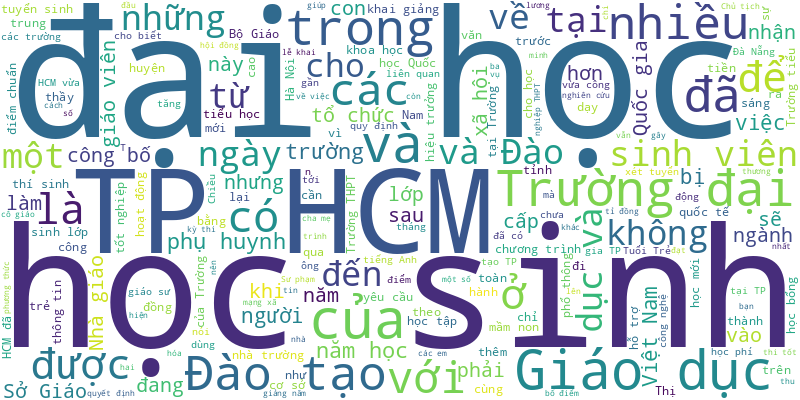
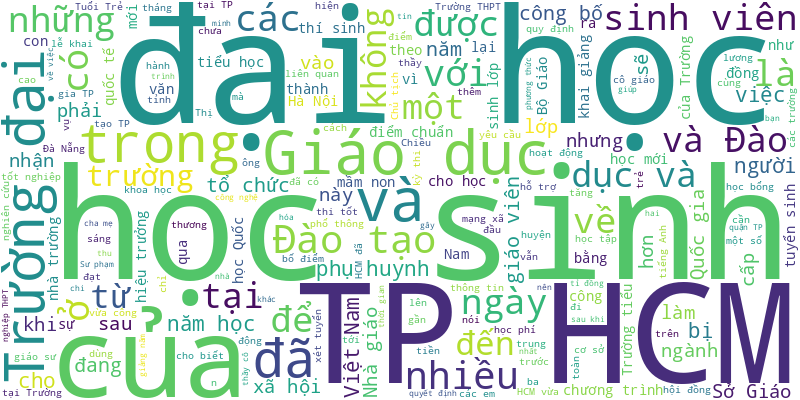
🍀 = 40%

diff --git a/README.md b/README.md
@@ -1,6 +1,19 @@
 # Tuoi Tre RSS 
 
 ## Giáo dục 
+- Ngày 20-11, Quốc hội thảo luận về dự thảo Luật Nhà giáo. Các nội dung liên quan chính sách đặc thù về tiền lương, tuyển dụng nhà giáo, dạy thêm đã nhận được nhiều ý kiến thảo luận của đại biểu.
+- Hành trình dạy học đối với cô giáo Phạm Minh Trang, giáo viên lớp 1/1 Trường tiểu học Đống Đa, quận Tân Bình, TP.HCM, là không ngừng đổi mới.
+- Giải thưởng Lê Văn Thới do giáo sư Lê Ngọc Thạch tài trợ vừa được tiếp tục trao cho người học có kết quả nghiên cứu khoa học xuất sắc.
+- Trường THPT ở Đắk Lắk thông báo không nhận hoa, phong bì vì không muốn phụ huynh, học sinh khó khăn bận lòng dịp lễ 20-11.
+- Bước sang mùa thứ 4 với nhiều đổi mới, sân chơi Royal Speaking Contest của Royal School không chỉ thu hút dàn thí sinh chất lượng mà còn lan tỏa giá trị của kỹ năng hùng biện học thuật.
+- Trẻ tự kỷ cần nhiều hơn một người thầy, người đồng hành sẵn sàng bước vào thế giới của các em, từng chút một.
+- Bộ trưởng Nguyễn Kim Sơn nêu rõ đang chủ trương không cấm việc dạy thêm, mà cấm những hành vi dạy thêm vi phạm đạo đức hoặc trái nguyên tắc chuyên môn của nhà giáo.
+- Theo PGS.TS Nguyễn Đức Sơn, tôn vinh nghề dạy học để thấy trách nhiệm của chúng ta lớn lao, công việc của chúng ta có ý nghĩa.
+- Những buổi không lên lớp, mẹ dọn hàng ra chợ và mãi đến chiều tối mới về nhà. Ngày 20-11 năm nay, tôi gửi lời tri ân hai đấng sinh thành của tôi.
+- Lực lượng cứu nạn, cứu hộ đã tìm được cả 5 thi thể học sinh trong vụ đuối nước xảy ra ở bãi sông Hồng đoạn qua xã Hiền Quan (Phú Thọ).
+- Dạy thêm học thêm cũng có những mặt tích cực, không phải giáo viên nào cũng xấu, ép học sinh học thêm.
+- Huyện đảo Trường Sa vừa tổ chức gặp mặt các thầy cô giáo đang công tác tại huyện đảo, nhân Ngày Nhà giáo Việt Nam (20-11).
+- 'Tình cảm của chúng em dành cho thầy bền chắc như những phân tử liên kết của carbon: Không ai có thể phá vỡ...'.
 - Bối cảnh mới đòi hỏi phải định nghĩa lại người thầy, hay nói cách khác là minh định lại vai trò là sứ mệnh của nghề giáo.
 - Họ đến với nghề giáo từ nhiều ngả đường khác nhau. Dù với con đường nào thì đích đến của họ là nghề trồng người, tuy nhiều gian lao nhưng vô cùng ý nghĩa.
 - Duy nhất cái tên Lê Công Sự là thầy giáo trong cả trăm "cô nuôi dạy trẻ" được Thành Đoàn TP.HCM trao giải thưởng "Nhà giáo trẻ tiêu biểu" TP.HCM 2024 dịp 20-11 năm nay.
@@ -988,21 +1001,56 @@
 - Thứ trưởng Bộ Giáo dục và Đào tạo Phạm Ngọc Thưởng đã yêu cầu TP.HCM sớm có trường phổ thông dùng tiếng Anh là ngôn ngữ thứ 2.
 - Phát hiện hai em nhỏ bị rơi xuống sông đuối nước, ba học sinh lớp 8 đã lao tới cứu các em, đưa lên bờ an toàn.
 - Các bài học về kỹ năng sống phải được thiết kế thiết thực hơn. Sự trải nghiệm quan trọng nhất là trải nghiệm thực tế cuộc sống.
-- Phải có đủ sách giáo khoa đến tay học sinh trước năm học mới 2024-2025 là yêu cầu của Bộ GD-ĐT được nhắc lại khi sắp tới ngày khai trường.
-- Chính quyền Jakarta lên kế hoạch sắp xếp cho học sinh nghèo được học miễn phí tại 1.000 trường tư thục trong năm học tới.
-- Trong năm học mới, các trường phát triển hệ thống ngân hàng câu hỏi trực tuyến cho các môn học; đẩy mạnh đánh giá thường xuyên bằng hình thức trực tuyến...
-- Liên quan vụ tố không xác nhận cư trú cho trẻ đi học, người cha cho biết đã chuyển chỗ ở từ Vĩnh Long sang Bến Tre để con kịp nhập học.
-- Theo dự thảo sửa đổi, bổ sung thông tư số 50/2021, Bộ Công an sẽ sửa đối tượng dự tuyển trình độ thạc sĩ và bổ sung đối tượng được phép đăng ký dự tuyển trình độ đại học vừa làm vừa học.
-- Số điện thoại tiếp nhận thông tin trong giờ hành chính của Bộ Giáo dục và Đào tạo: 024.38621002, email: duongdaynongct10.2019@moet.gov.vn.
-- Trường đại học Sư phạm TP.HCM vừa công bố đề thi đánh giá năng lực chuyên biệt theo cấu trúc mới từ năm 2025.
-- Liên quan đến việc Trường THPT Ngô Quyền - Đông Anh, Hà Nội, ra quyết định "dừng đào tạo" với một học sinh lớp 12A5, Sở Giáo dục và Đào tạo Hà Nội vừa có chỉ đạo.
-- Trường trung cấp Y - Dược Tôn Thất Tùng bị thanh tra kết luận có dấu hiệu làm giả giấy chứng nhận đăng ký hoạt động để cung cấp cho bảo hiểm xã hội quận.
-- Ông Nguyễn Văn Hiếu - giám đốc Sở Giáo dục và Đào tạo TP.HCM - yêu cầu các trường trung học coi dạy tiếng Anh là mở cánh cửa vào đời cho học sinh và yêu cầu cán bộ sở này nghiên cứu trình dự thảo về phổ cập tiếng Anh cho học sinh TP.
-- Sinh viên ngành công nghệ thông tin Trường đại học Công nghệ TP.HCM (HUTECH) trải nghiệm cách học lưu động mà ở đó các bạn được vạch đường từ những chuyên gia công nghệ.
-- Nhiều trường phổ thông tư thục tại TP.HCM đã bắt đầu đón học sinh tựu trường năm học mới từ tuần này.
-- Sở Giáo dục và Đào tạo TP.HCM vừa yêu cầu Trường quốc tế AISVN nghiêm túc chấp hành quyết định đình chỉ hoạt động, đồng thời tạo mọi điều kiện thuận lợi nhất cho cha mẹ học sinh làm thủ tục chuyển trường.
 ![Edu](Edu.png)
 ## Thời Sự 
+- Từ thực tế gỡ vướng cho dự án Nhiệt điện Thái Bình 2, những dự án ngàn tỉ đồng hiện đang còn vướng mắc có cách nào để giải quyết?
+- Sự hồi sinh Nhà máy nhiệt điện Thái Bình 2, đạm Ninh Bình, xơ sợi Đình Vũ... thời gian qua cho thấy có thể chặn đứng lãng phí ở những đại dự án ngàn tỉ đồng "đắp chiếu" nhiều năm.
+- Ngày 20-11, Quốc hội thảo luận về dự thảo Luật Nhà giáo. Các nội dung liên quan chính sách đặc thù về tiền lương, tuyển dụng nhà giáo, dạy thêm đã nhận được nhiều ý kiến thảo luận của đại biểu.
+- Hôm nay (21-11), Quốc hội thảo luận việc thí điểm cho mua đất nông nghiệp, đất không phải đất ở làm dự án nhà ở thương mại. Lần thứ 3 (trong hai năm kể từ năm 2022) doanh nghiệp hồi hộp chờ một chính sách vốn đã có, giờ chờ thông qua để "thí điểm".
+- Vụ tai nạn xảy ra khoảng 23h30 ngày 20-11 tại km 6+500 cao tốc Phan Thiết - Dầu Giây, đoạn qua huyện Hàm Thuận Nam, tỉnh Bình Thuận giữa xe khách và xe đầu kéo.
+- Một số tin tức đáng chú ý: FPT chi nghìn tỉ đồng trả cổ tức; Phát hiện một doanh nghiệp 'ém' thông tin trái phiếu; Cuối tháng 11, cầu Rạch Đỉa ở huyện Nhà Bè sẽ thông xe; Sốt xuất huyết, tay chân miệng tại TP.HCM giảm, sởi tiếp tục tăng mạnh...
+- Thủ tướng Phạm Minh Chính nhấn mạnh quan hệ giữa Việt Nam và Cộng hòa Dominica đang bắt đầu bước sang trang mới.
+- Từ đêm nay 21-11, thời tiết miền Trung mưa lớn, hai miền Nam, Bắc ngày nắng, trên biển dông gió dữ dội.
+- Sáng 20-11 (giờ địa phương, tối cùng ngày giờ Việt Nam), Thủ tướng Phạm Minh Chính và Phu nhân đã bắt đầu các hoạt động chính thức tại Cộng hòa Dominica.
+- UBND huyện Cát Hải (TP Hải Phòng) vừa thông báo dừng hoạt động dịch vụ chèo thuyền kayak trên các vịnh thuộc quần đảo Cát Bà.
+- Một thầy giáo người Hà Tĩnh suốt hơn 50 năm qua cất công sưu tầm hàng ngàn hiện vật với tâm niệm lưu giữ, tái hiện quá khứ, phục sinh những giá trị truyền thống của dân tộc.
+- Chủ tịch UBND TP.HCM có quyết định xếp hạng di tích cấp TP với di tích kiến trúc nghệ thuật chợ Bến Thành cùng với trụ sở UBND quận 1, trụ sở Cục Hải quan TP.HCM, đền thờ Đức Thánh Trần Hưng Đạo.
+- Phó thủ tướng Trần Hồng Hà nói trong buổi làm việc với các bộ, ngành và lãnh đạo các địa phương về dự án cao tốc Đồng bằng sông Cửu Long.
+- TP.HCM rà soát toàn bộ dự án, công trình tồn đọng, tài sản công sử dụng lãng phí. Trong tháng 12 sẽ xây dựng kế hoạch chi tiết xử lý các vướng mắc.
+- Từ ngày 24-11, năm phường trên địa bàn tỉnh Hải Dương sẽ không được chăn nuôi gia súc, gia cầm.
+- Liên quan vụ tai nạn tài xế xe công nghệ có nồng độ cồn tông liên hoàn tại Bình Dương làm một người chết, công an đã khởi tố và bắt tạm giam bị can.
+- Cầu Cánh Cò vừa được UBND tỉnh Hải Dương phê duyệt kết quả thi tuyển phương án kiến trúc có vốn đầu tư 759 tỉ đồng.
+- Cùng lúc, Công an tỉnh Bình Dương có thêm hai phó giám đốc, trong đó một người tại chỗ và một người được điều động, bổ nhiệm để kiện toàn công tác nhân sự.
+- Chủ tịch UBND tỉnh Bình Thuận Đoàn Anh Dũng vừa ký ban hành kế hoạch triển khai nghị quyết số 1253 của Ủy ban Thường vụ Quốc hội về việc sắp xếp đơn vị hành chính cấp xã tại tỉnh giai đoạn 2023 - 2025.
+- Chủ tịch Hà Nội Trần Sỹ Thanh đã yêu cầu các đơn vị liên quan bàn giải pháp về việc Công viên hồ Phùng Khoang bỏ hoang nhiều năm gây lãng phí.
+- Cơ quan công an xác định có lỗi từ hai phía trong vụ tài xế taxi xịt hơi cay vào du khách ở Đà Lạt.
+- Một số đại biểu Quốc hội kiến nghị cần xem xét mở rộng tuyến đường sắt tốc độ cao, đảm bảo phát triển đồng bộ và huy động nguồn lực trong nhân dân, khối tư nhân cho dự án này.
+- Bí thư Bình Phước Nguyễn Mạnh Cường đã được Bộ Chính trị điều động, bổ nhiệm làm phó trưởng Ban Đối ngoại Trung ương.
+- Ông Võ Thành Hưng, thứ trưởng Bộ Tài chính, được Ban Bí thư điều động, bổ nhiệm giữ chức phó chánh Văn phòng Trung ương Đảng.
+- Bộ Chính trị yêu cầu các cơ quan phải xác định quyết tâm chính trị cao trong tổ chức thực hiện đề án trung tâm tài chính TP.HCM và Đà Nẵng.
+- Cục Thi hành án dân sự TP Cần Thơ vừa có báo cáo gửi Tổng cục Thi hành án dân sự về vụ cho thuê nhà rồi đòi mãi không trả, tòa buộc trả vẫn không trả.
+- Cao tốc TP.HCM - Thủ Dầu Một - Chơn Thành, cao tốc Dầu Giây - Tân Phú giai đoạn 1... đang trong giai đoạn lựa chọn nhà đầu tư triển khai.
+- Trách nhiệm chính đối với nguyên nhân kéo dài thời hạn hoàn thành giai đoạn 1 dự án sân bay Long Thành là của Bộ Giao thông vận tải và ACV.
+- Tài xế Porsche Macan S đi làn khẩn cấp rồi thò tay qua cửa kính đập gương xe Hyundai. Người ngồi trên ghế phụ ô tô Hyundai cũng hành động tương tự.
+- Hai cháu nhỏ ở Đắk Lắk ăn thịt cóc tự làm, một cháu tử vong, cháu còn lại hiện đang cấp cứu.
+- UBND TP.HCM đề xuất Thủ tướng cho phép được xây dựng quy định xử lý nợ rủi ro phát sinh của người nghèo do nguyên nhân mang tính chất đặc thù.
+- Các đơn vị hiện lắp đặt, thử nghiệm hệ thống thu soát vé tự động cho giao thông công cộng tại TP.HCM, hướng tới phục vụ người dân tốt hơn.
+- Như vậy, sau 13 năm trần ai lặn lội ngược xuôi, tốn kém tiền bạc, sức lực, người cha già đã tìm được công bằng cho con mình.
+- Bộ Giao thông vận tải nêu việc lựa chọn tốc độ thiết kế 350km/h cho đường sắt tốc độ cao Bắc - Nam để đáp ứng tiêu chí hiện đại, suất đầu tư là không đắt.
+- Ông Học đã lợi dụng chức vụ, quyền hạn, ‘thụt két’ của công ty 2,1 tỉ đồng để tiêu xài cá nhân.
+- Người đứng đầu chính quyền Đồng Nai chưa chấp thuận việc tháo dỡ hàng rào công viên quảng trường tỉnh.
+- Sáng 20-11, một số người dân ở khu vực biển Tân Thành, TP Hội An tá hỏa khi thấy trên bãi biển thi thể một người đàn ông nước ngoài nổi lên gần bờ.
+- Bộ trưởng Nguyễn Kim Sơn nêu rõ đang chủ trương không cấm việc dạy thêm, mà cấm những hành vi dạy thêm vi phạm đạo đức hoặc trái nguyên tắc chuyên môn của nhà giáo.
+- Thủ tướng Phạm Minh Chính là lãnh đạo chủ chốt đầu tiên của Việt Nam đến thăm Cộng hòa Dominica kể từ khi hai nước thiết lập quan hệ ngoại giao năm 2005.
+- Đẩy mạnh công tác giáo dục chính trị tư tưởng trong đội ngũ phóng viên, biên tập viên, đổi mới phương pháp giảng dạy lý luận chính trị, chú trọng thực tiễn và hấp dẫn.
+- Công an thị xã Phú Mỹ, tỉnh Bà Rịa - Vũng Tàu đã cưỡng chế công trình vi phạm hành lang tuyến ống dẫn khí trong Khu công nghiệp Mỹ Xuân A2. Chủ công trình vi phạm là Công ty TNHH phát triển quốc tế Formosa.
+- Hết tiền, Trung tâm nuôi dưỡng, phục hồi chức năng nạn nhân chất độc da cam/dioxin Nghĩa Thắng (Quảng Ngãi) phải dừng hoạt động. Những người gắn bó với trung tâm 13 năm qua rất buồn vì điều này.
+- Trưởng Ban Tuyên giáo Thành ủy TP.HCM cho rằng báo Tuổi Trẻ có bước đi và kinh nghiệm rất đáng trân trọng trong công tác phát triển Đảng; đào tạo, bồi dưỡng chính trị cho đội ngũ.
+- TS Nguyễn Tiến Dĩnh cho rằng vấn đề cải cách hành chính, trong đó có tinh gọn bộ máy, tinh giản biên chế là 'khâu đột phá' trong tháo gỡ thể chế.
+- Chủ tịch UBND TP Hà Nội Trần Sỹ Thanh sẽ làm trưởng Ban Chỉ đạo về thực hiện các biện pháp phòng, chống lãng phí TP Hà Nội.
+- Một phụ nữ khi thao tác trên Internet Banking thì chuyển khoản nhầm cho người lạ. Hành trình của công an phường ở Đà Nẵng giúp người phụ nữ thu hồi số tiền như thế nào?
+- Lực lượng cứu nạn, cứu hộ đã tìm được cả 5 thi thể học sinh trong vụ đuối nước xảy ra ở bãi sông Hồng đoạn qua xã Hiền Quan (Phú Thọ).
+- Dạy thêm học thêm cũng có những mặt tích cực, không phải giáo viên nào cũng xấu, ép học sinh học thêm.
 - Họ đến với nghề giáo từ nhiều ngả đường khác nhau. Dù với con đường nào thì đích đến của họ là nghề trồng người, tuy nhiều gian lao nhưng vô cùng ý nghĩa.
 - Nguyễn Văn Giỏi - phó giám đốc Công ty Nam Hào Kiệt - bị bắt với cáo buộc nghiệm thu khối lượng công trình xử lý sạt lở bờ sông Hậu gây thiệt hại cho Nhà nước.
 - Bộ trưởng Bộ Giáo dục và Đào tạo Nguyễn Kim Sơn đã giải trình ý kiến đại biểu liên quan chính sách tiền lương, phụ cấp của giáo viên tại dự Luật Nhà giáo.
@@ -1955,54 +2003,6 @@
 - Liên quan vụ 21 con hổ, báo chết ở Đồng Nai, các mẫu xét nghiệm lấy tại khu du lịch Vườn Xoài liên tiếp âm tính với cúm gia cầm A/H5N1.
 - Đà Nẵng sẽ nghiên cứu kết hợp với thương mại dịch vụ tại các điểm nhà vệ sinh công cộng trên các tuyến đường du lịch.
 - Phường An Phú, An Cư và An Nghiệp được sáp nhập vào phường Thới Bình, quận Ninh Kiều để thành lập phường mới từ hôm nay.
-- Chuyển từ quốc lộ sang đường đô thị là một tất yếu mang tính quy luật do quá trình đô thị hóa và sự thay đổi mạnh mẽ của ngành giao thông.
-- Ông Nguyễn Thanh Lâm, thứ trưởng Bộ Thông tin và Truyền thông, được Thủ tướng Chính phủ bổ nhiệm giữ chức tổng giám đốc VTV.
-- Cơ quan cảnh sát điều tra Bộ Công an vừa kết luận điều tra vụ án xảy ra ở dự án Khu đô thị du lịch biển Phan Thiết, tỉnh Bình Thuận.
-- Chính phủ trình Quốc hội chủ trương đầu tư Chương trình mục tiêu quốc gia phát triển văn hóa 2025-2035 với tổng nguồn 256.250 tỉ đồng.
-- Ngày 1-11, một lãnh đạo Công an TP Pleiku cho biết hiện cơ quan điều tra đang thụ lý vụ nữ sinh bị đánh tập thể rồi lột đồ quay clip.
-- Nguyễn Văn Tiền (ở xã Dương Tơ, Phú Quốc) cùng hai người khác đã chuyển nhượng khoảng 3ha đất lấy 4 tỉ đồng.
-- Để cấm xe máy cá nhân, Hà Nội cần đánh giá tác động xã hội, bởi cấm xe cá nhân thì phải có xe thay thế, phương tiện công cộng phải tiện lợi.
-- Nhiều người dân xã Vĩnh Ngọc (Nha Trang) nói họ "mừng hơn trúng số" khi HĐND TP vừa thống nhất đầu tư xây dựng cầu Phú Kiểng kiên cố.
-- Ông Lâm Phi Hùng sinh năm 1965, ông xin nghỉ hưu trước tuổi hơn 2 năm theo đối tượng tinh giản biên chế.
-- Đại biểu Quốc hội đề nghị quy định cụ thể về phòng cháy chữa cháy với trường hợp nhà ở chuyển đổi công năng sang sản xuất, kinh doanh.
-- Tuyến cao tốc Nghi Sơn - Diễn Châu do Tập đoàn Sơn Hải thi công và bảo hành 10 năm bị gỡ hết 9 biển cam kết bảo hành 10 năm trên đường.
-- Công an bắt quả tang khi tài xế Nguyễn Hoàng Anh nhận 250 triệu đồng của một phụ nữ để hứa hẹn chạy án ma túy.
-- Công an TP Quảng Ngãi đã tống đạt quyết định khởi tố bị can và bắt tạm giam thanh niên quan hệ tình dục với hai chị em sinh đôi mới 15 tuổi.
-- Trao đổi với Tuổi Trẻ, luật sư Trương Anh Tú, chủ tịch TAT Law Firm, khẳng định việc cấm phân lô bán nền là cần thiết.
-- Với thực trạng phân lô bán nền nhức nhối như thời gian qua, liệu các địa phương có thể ngăn chặn?
-- Hầu hết là xe không rõ nguồn gốc, xuất xứ được nhập lậu hoặc tự lắp ráp, "độ chế" từ các linh kiện, phụ tùng không nhãn mác.
-- Quốc hội thảo luận tại hội trường về một số nội dung còn ý kiến khác nhau của dự thảo Luật Phòng cháy, chữa cháy và cứu nạn, cứu hộ.
-- Giao UBND TP Hà Tiên tổ chức kiểm điểm rút kinh nghiệm đối với tập thể lãnh đạo UBND TP trong việc chỉ đạo, quản lý điều hành.
-- UBND thành phố Hà Nội vừa có quyết định về việc ban hành giá vé vận chuyển hành khách công cộng bằng xe buýt có trợ giá trên địa bàn thành phố bắt đầu từ ngày 1-11.
-- Hà Nội, TP.HCM đang gồng mình chịu ô nhiễm, trong đó có lượng khí thải khổng lồ từ xe cộ dùng xăng dầu thải ra hằng ngày.
-- Một số tin tức đáng chú ý: Quốc hội thảo luận Luật Phòng cháy, chữa cháy và cứu nạn, cứu hộ; Miền Tây lại đối mặt triều cường cao; Việt Nam nằm trong nhóm nước bị thiếu i ốt...
-- Hôm nay 1-11, thời tiết Bắc Bộ sẽ chuyển lạnh do không khí lạnh tăng cường. Nam Bộ và Trung Bộ nắng gián đoạn, có lúc mưa rào.
-- Trong 1 tháng cao điểm xử lý vi phạm của cảnh sát giao thông, có hơn 77.000 trường hợp vi phạm nồng độ cồn bị xử lý.
-- Bảo tàng Lịch sử quân sự Việt Nam mới tại quận Nam Từ Liêm, Hà Nội chính thức mở cửa phục vụ người dân và du khách từ ngày mai 1-11.
-- Gặp mặt lãnh đạo TP.HCM, đoàn Hội Tiểu nông Cuba mong muốn thắt chặt quan hệ hợp tác, hữu nghị giữa Hội Tiểu nông Cuba với TP.HCM.
-- Xưởng nội thất ở An Đồng (huyện An Dương, Hải Phòng) cháy lan làm 7 hộ dân liền kề bị thiệt hại.
-- Tỉnh Khánh Hòa đang đề nghị các bộ ngành trung ương góp ý về đề án xây dựng Trung tâm Nghiên cứu quốc gia về công nghệ đại dương tại tỉnh này.
-- Ngày 1-11, thị xã Đông Triều (tỉnh Quảng Ninh) sẽ chính thức trở thành thành phố, như vậy Quảng Ninh sẽ có 5 thành phố trực thuộc tỉnh.
-- HĐND tỉnh Khánh Hòa đã gác lại việc thông qua nghị quyết phê duyệt danh mục 18 khu đất để thực hiện đấu thầu lựa chọn nhà đầu tư.
-- Ngày 31-10, Phó thủ tướng thường trực Nguyễn Hòa Bình đã ký quyết định số 1303/QĐ-TTg về việc thi hành kỷ luật đối với bà Nguyễn Thị Hồng, nguyên phó chủ tịch UBND TP.HCM.
-- Dự án xây dựng đoạn tuyến nối từ đường Võ Văn Kiệt đến đường cao tốc TP.HCM - Trung Lương (giai đoạn 1) khởi công từ năm 2016.
-- Việt Nam bày tỏ mong muốn hợp tác chặt chẽ với chính quyền Mỹ trong thời gian tới, trong bối cảnh chỉ còn vài ngày nữa là bầu cử tổng thống Mỹ.
-- Kết luận có nhiều nội dung để tháo gỡ những điểm nghẽn, khó khăn.
-- Đại biểu Tạ Văn Hạ nêu dẫn chứng con ông đi học phổ thông, được gia đình mua bảo hiểm của công ty nước ngoài, nhưng cũng phải đóng bảo hiểm y tế.
-- Bộ Ngoại giao cho hay Việt Nam sẽ nghiên cứu các quy chế của nhóm BRICS và việc tham gia được xem xét trên cơ sở lợi ích, điều kiện, khả năng của Việt Nam.
-- Nhà thầu thi công mặt đường bề rộng 4m, nhưng lại nghiệm thu với bề rộng 13m, dẫn đến phần diện tích chênh lệch là 1.836m2.
-- Trong 10 ngày đầu tháng 11, ở Biển Đông xuất hiện áp thấp nhiệt đới, còn miền Trung có khả năng gặp đợt mưa đặc biệt lớn, gây ngập lụt.
-- Bộ Ngoại giao nhấn mạnh chủ quyền đối với quần đảo Hoàng Sa, kiên quyết phản đối việc bắt giữ của Trung Quốc và yêu cầu thả ngư dân đồng thời bồi thường.
-- Bộ Ngoại giao Việt Nam bày tỏ hết sức quan ngại khi có thông tin Trung Quốc đang hoàn thiện cơ sở hạ tầng để đưa radar ra đảo Tri Tôn, thuộc quần đảo Hoàng Sa.
-- Biết tin thầy hiệu trưởng nghỉ hưu, 1.400 học sinh Trường THPT Phan Chu Trinh (xã Ea Ral, Ea Hleo, tỉnh Đắk Lắk) tổ chức lễ chia tay ngay tại sân trường.
-- Trường đại học Fulbright Việt Nam cho biết đã nhận giấy phép xây dựng cho giai đoạn 1 tại Khu công nghệ cao TP.HCM vào ngày 28-10-2024.
-- Đại biểu Quốc hội đề nghị quy định thanh toán cho bệnh nhân khám bảo hiểm y tế phải mua thuốc, vật tư y tế bên ngoài khi bệnh viện không có.
-- Quân khu 4 sẽ cử y bác sĩ về thị trấn Lăng Cô (huyện Phú Lộc, Thừa Thiên Huế) để khám, cấp phát thuốc cho người dân ở vùng bị thiệt hại do bão Trà Mi gây ra.
-- Bà Hoàng Thị Kim Châu, nguyên tổng giám đốc Công ty cổ phần Bách Đạt An, đã bị Công an tỉnh Quảng Nam khởi tố, bắt tạm giam.
-- Tại kỳ họp thứ 14 HĐND tỉnh Tiền Giang khóa X, bà Châu Thị Mỹ Phương, trưởng Ban Tuyên giáo Tỉnh ủy Tiền Giang, đã được bầu làm chủ tịch Hội đồng nhân dân tỉnh Tiền Giang khóa 10, nhiệm kỳ 2021-2026
-- Dự án cầu Rạch Miễu 2 đã thi công hoàn thành 100% thân trụ tháp dây văng cho cả 2 trụ tháp P19 và P20, hoàn thành vượt tiến độ hơn 3 tháng so với kế hoạch.
-- Cầu đi bộ kết nối với tuyến metro số 1 sẽ tạo nhiều thuận tiện cho người dân đi lại. Việc xây dựng hoàn thành tất cả 9 cây cầu đi bộ là bước ngoặt quan trọng, tiến đến vận hành chính thức trong tháng 12.
-- Temu, Shein và Taobao đang tạo áp lực cạnh tranh lên thị trường Việt Nam, khiến các sản phẩm nội địa khó cạnh tranh. Việt Nam cần làm gì để giảm khoảng cách này?
 ![New](News.png)
 ## Nhịp sống số 
 - Samsung đã đáp ứng nhu cầu khám phá và trải nghiệm công nghệ của người tiêu dùng theo cách khác biệt với cửa hàng Samsung West Lake.
